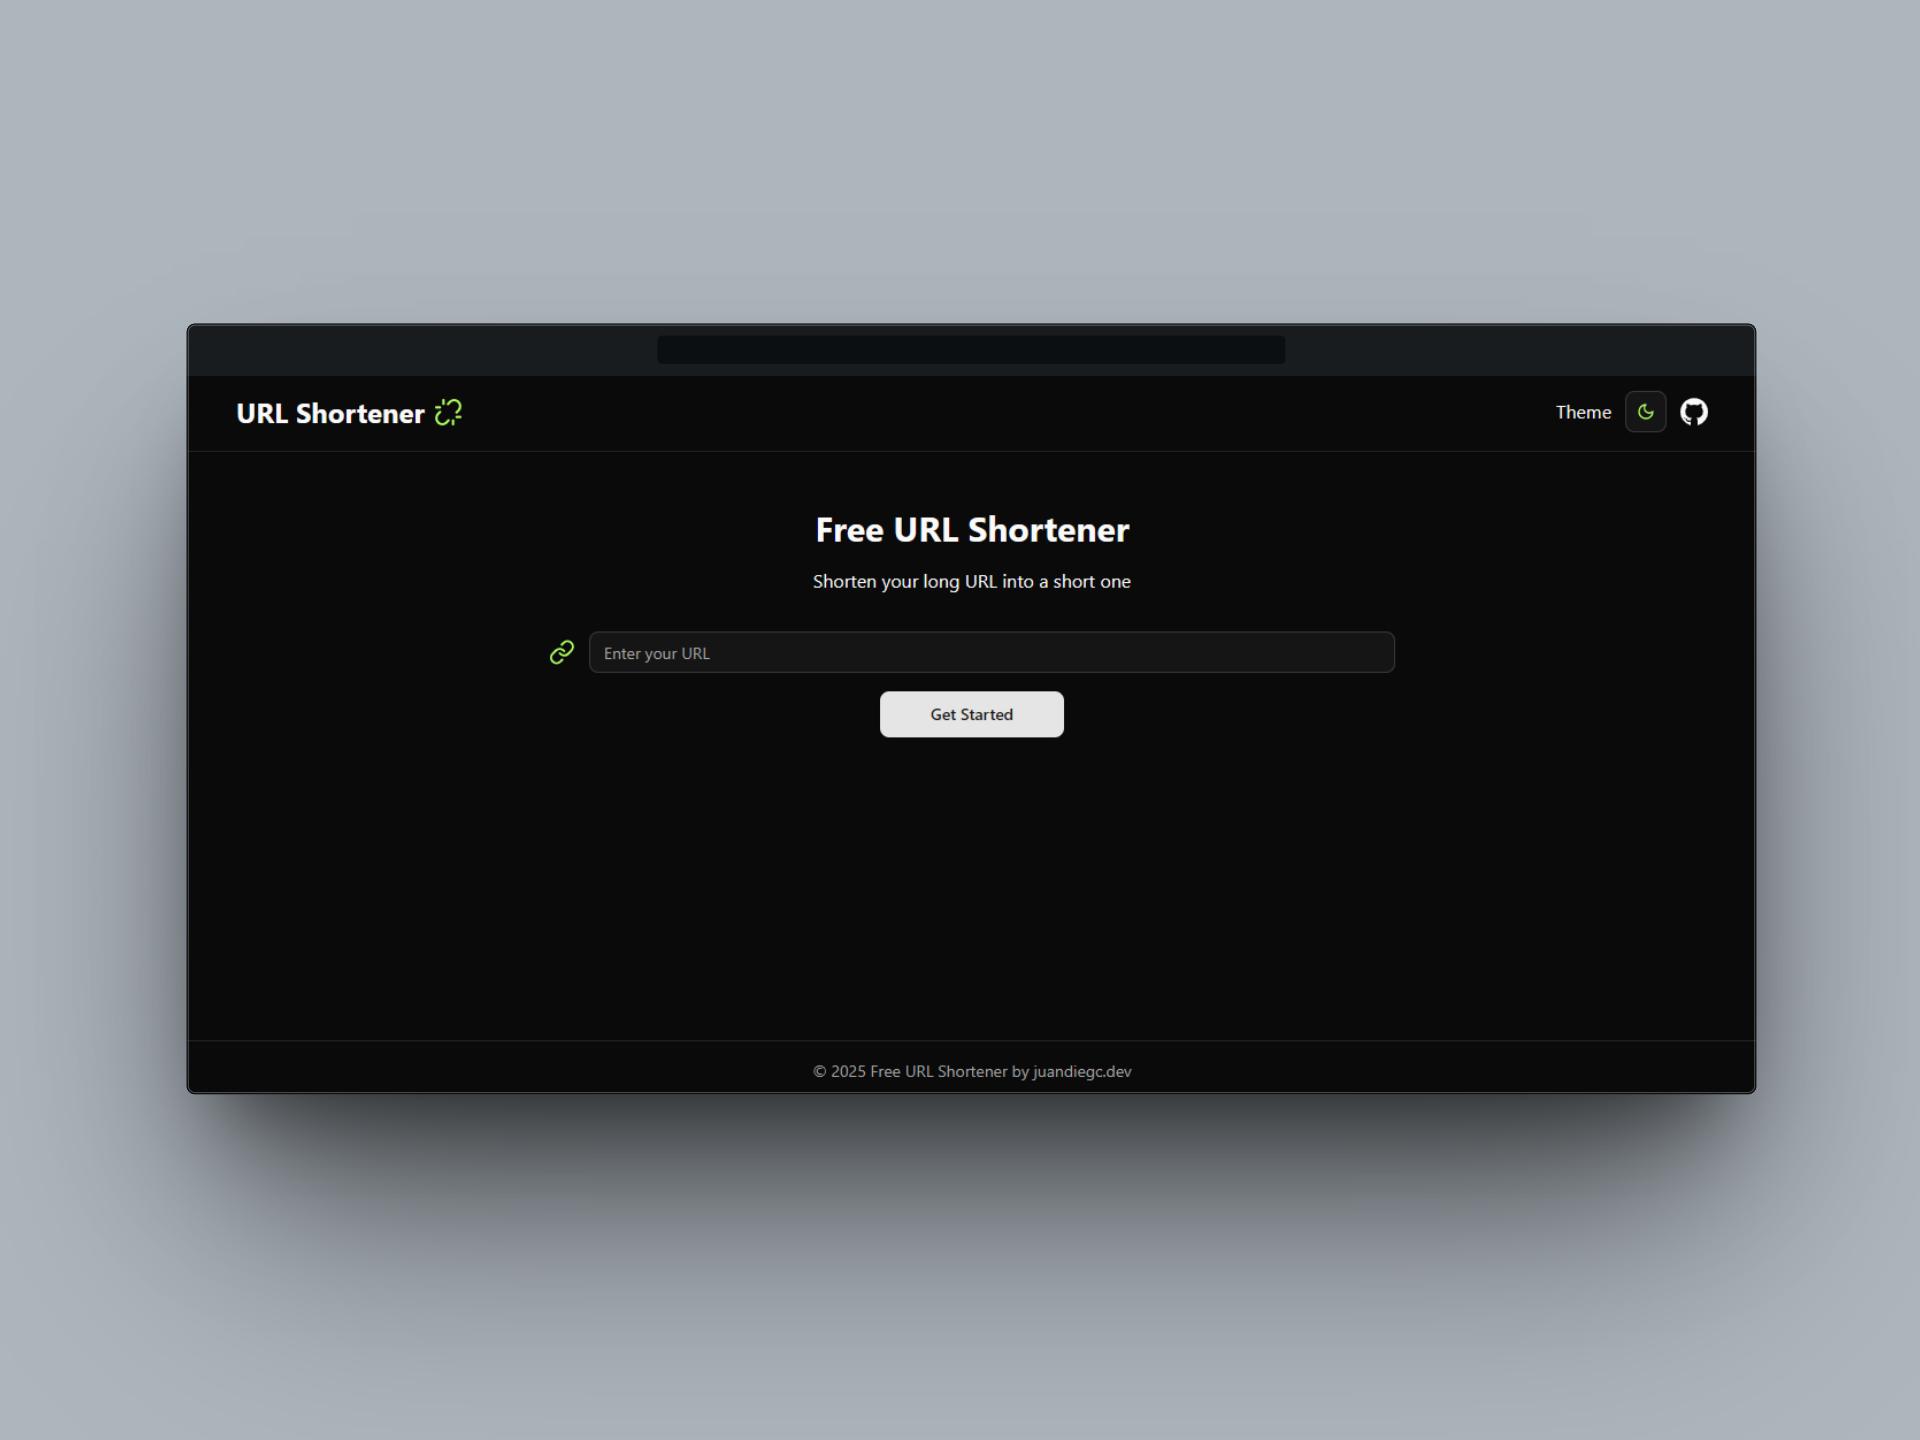
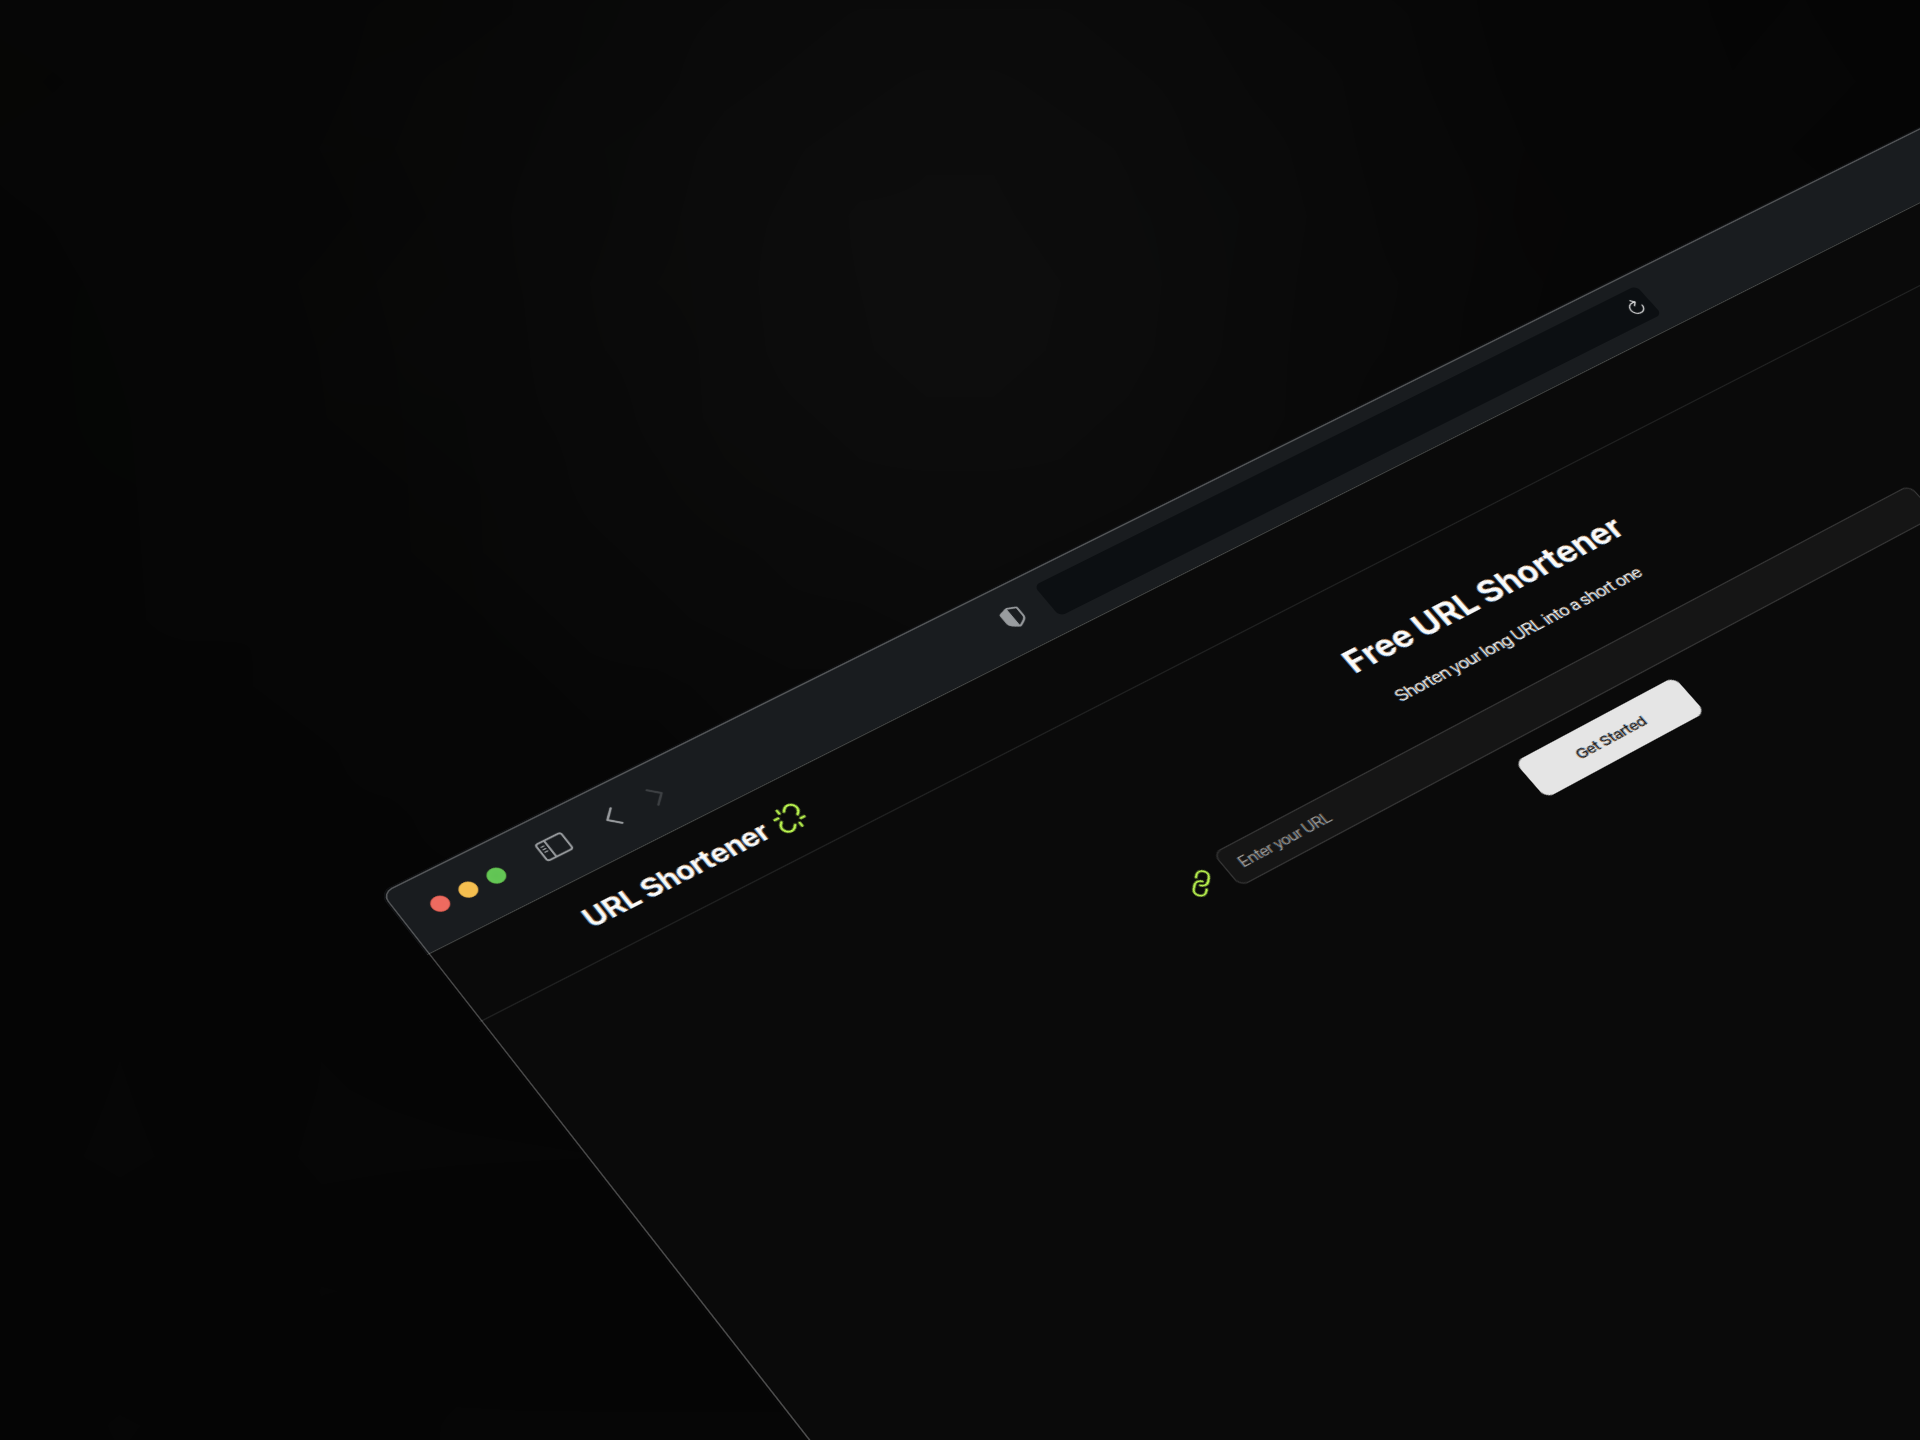
feat: new mockups projects

diff --git a/src/data/projects.ts b/src/data/projects.ts
@@ -2,31 +2,6 @@ import type { IProjects } from "../types/projects.type";
 
 export const Projects: IProjects[] = [
     {
-        id: "url",
-        title: "URL Shortener",
-        description: {
-            en: "🌱 Consectetur do reprehenderit ipsum adipisicing amet enim in ea qui. Ut laborum ut qui cillum minim pariatur magna incididunt ut ipsum sit anim cillum. Tempor in aliqua mollit et irure fugiat nulla ad duis ea aliquip deserunt irure officia. Anim irure et et adipisicing ex.",
-            es: "🌱 Un acortador de URL de código abierto.",
-
-        },
-        github: "https://github.com/juandiego252/URLShortenerApp.git",
-        link: "https://url-shortener-app-virid.vercel.app/",
-        favIcon: "/assets/projects-images/link.svg",
-        image: [
-            {
-                src: "/assets/projects-mocks/URLShorterAppOne.png",
-                alt: "URL Shortener - Home Page"
-            },
-            {
-                src: "/assets/projects-mocks/URLShorterAppTwo.png",
-                alt: "URL Shortener - Home Page"
-            },
-        ],
-        tags: ['React', 'Tailwind', 'ASP.NET', 'Redis', 'Azure'],
-        updated: true,
-        fullstack: true,
-    },
-    {
         id: "penguin",
         title: "Penguin GPT",
         description: {
@@ -56,6 +31,35 @@ export const Projects: IProjects[] = [
             },
         ],
         tags: ['React', 'Tailwind', 'NestJS', 'OpenAI', 'Gemini'],
+        fullstack: true,
+    },
+    {
+        id: "url",
+        title: "URL Shortener",
+        description: {
+            en: "🌱 Link shortening service developed with ASP.NET Core, designed to transform long URLs into short, easy-to-share links. It has optimized performance thanks to the use of cache, which guarantees fast and efficient responses. In addition, it offers a detailed statistics system that allows you to track the use of each link.",
+            es: "🌱 Servicio de acortamiento de enlaces desarrollado con ASP.NET Core, diseñado para transformar URLs largas en enlaces cortos y fáciles de compartir. Posee un redimiento optimizado gracias al uso de caché, lo que garantiza respuestas rápidas y eficientes. Además, ofrece un sistema de estadísticas detalladas que permite rastrear el uso de cada enlace.",
+
+        },
+        github: "https://github.com/juandiego252/URLShortenerApp.git",
+        link: "https://url-shortener-app-virid.vercel.app/",
+        favIcon: "/assets/projects-images/link.svg",
+        image: [
+            {
+                src: "/assets/projects-mocks/URLShorterAppOne.png",
+                alt: "URL Shortener - Home Page"
+            },
+            {
+                src: "/assets/projects-mocks/URLShorterAppTwo.png",
+                alt: "URL Shortener - Home Page"
+            },
+            {
+                src: "/assets/projects-mocks/URLShorterAppThree.png",
+                alt: "URL Shortener - Home Page"
+            }
+        ],
+        tags: ['React', 'Tailwind', 'ASP.NET', 'Redis', 'Azure'],
+        updated: true,
         fullstack: true,
     },
     {
